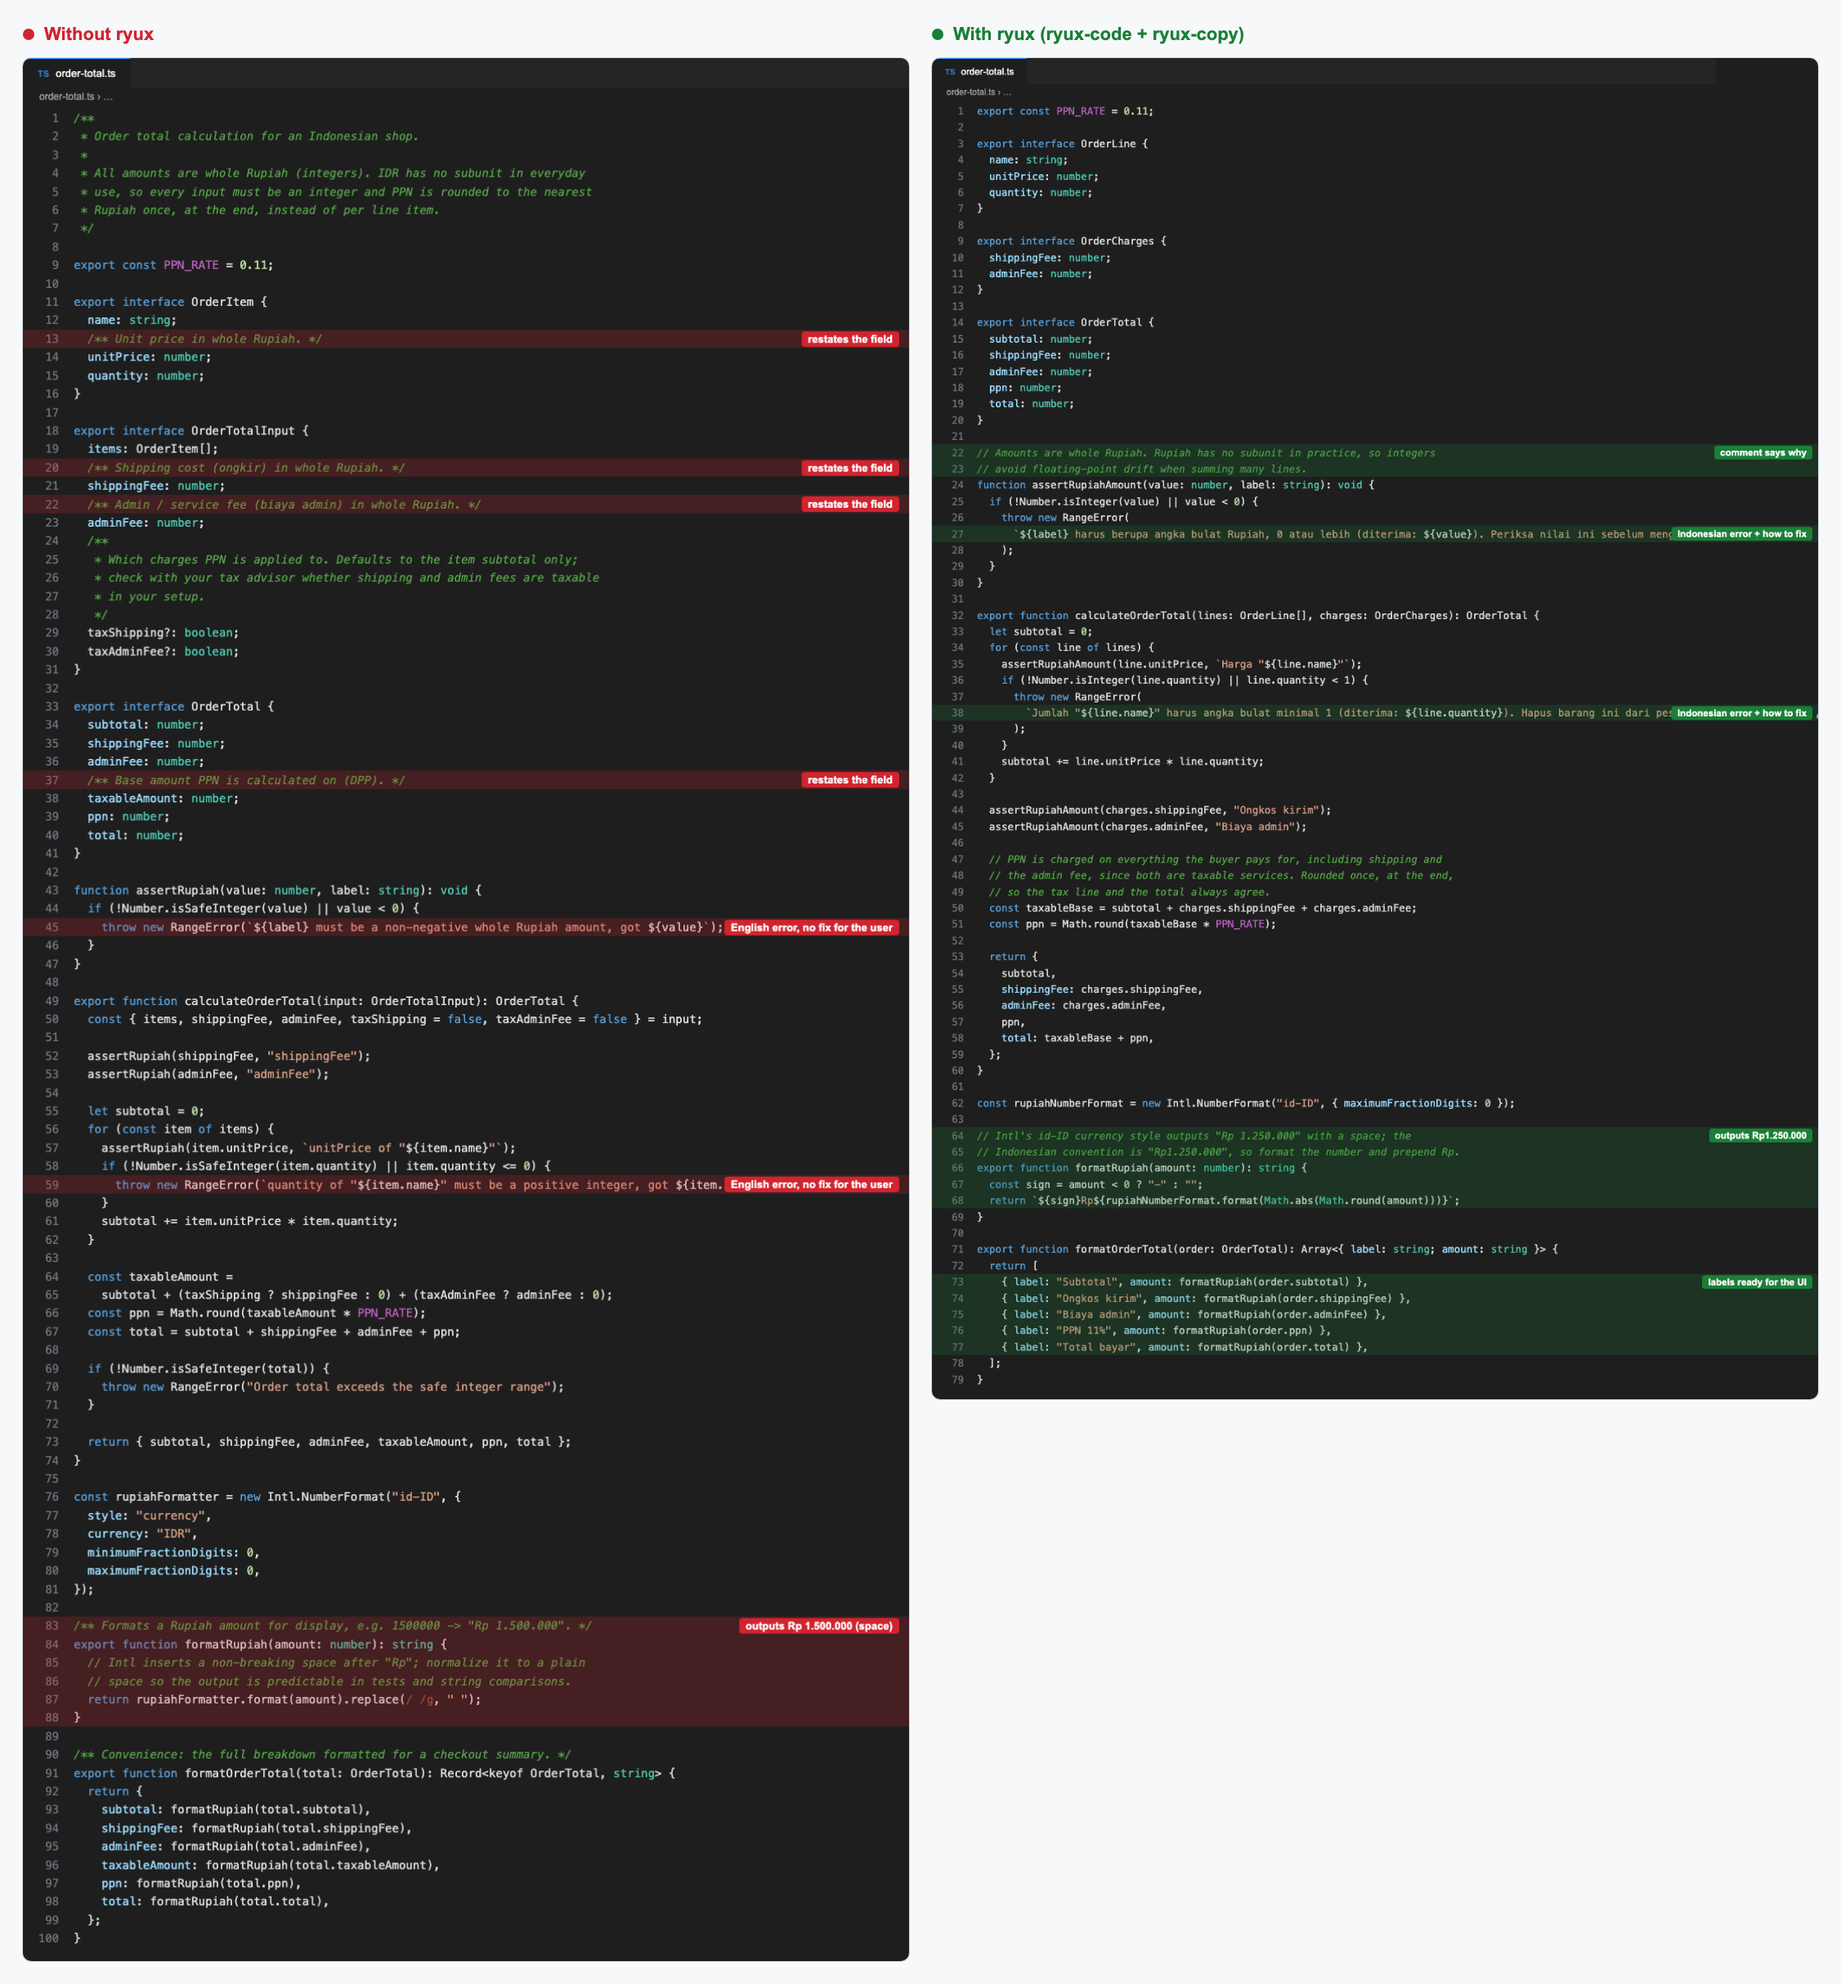
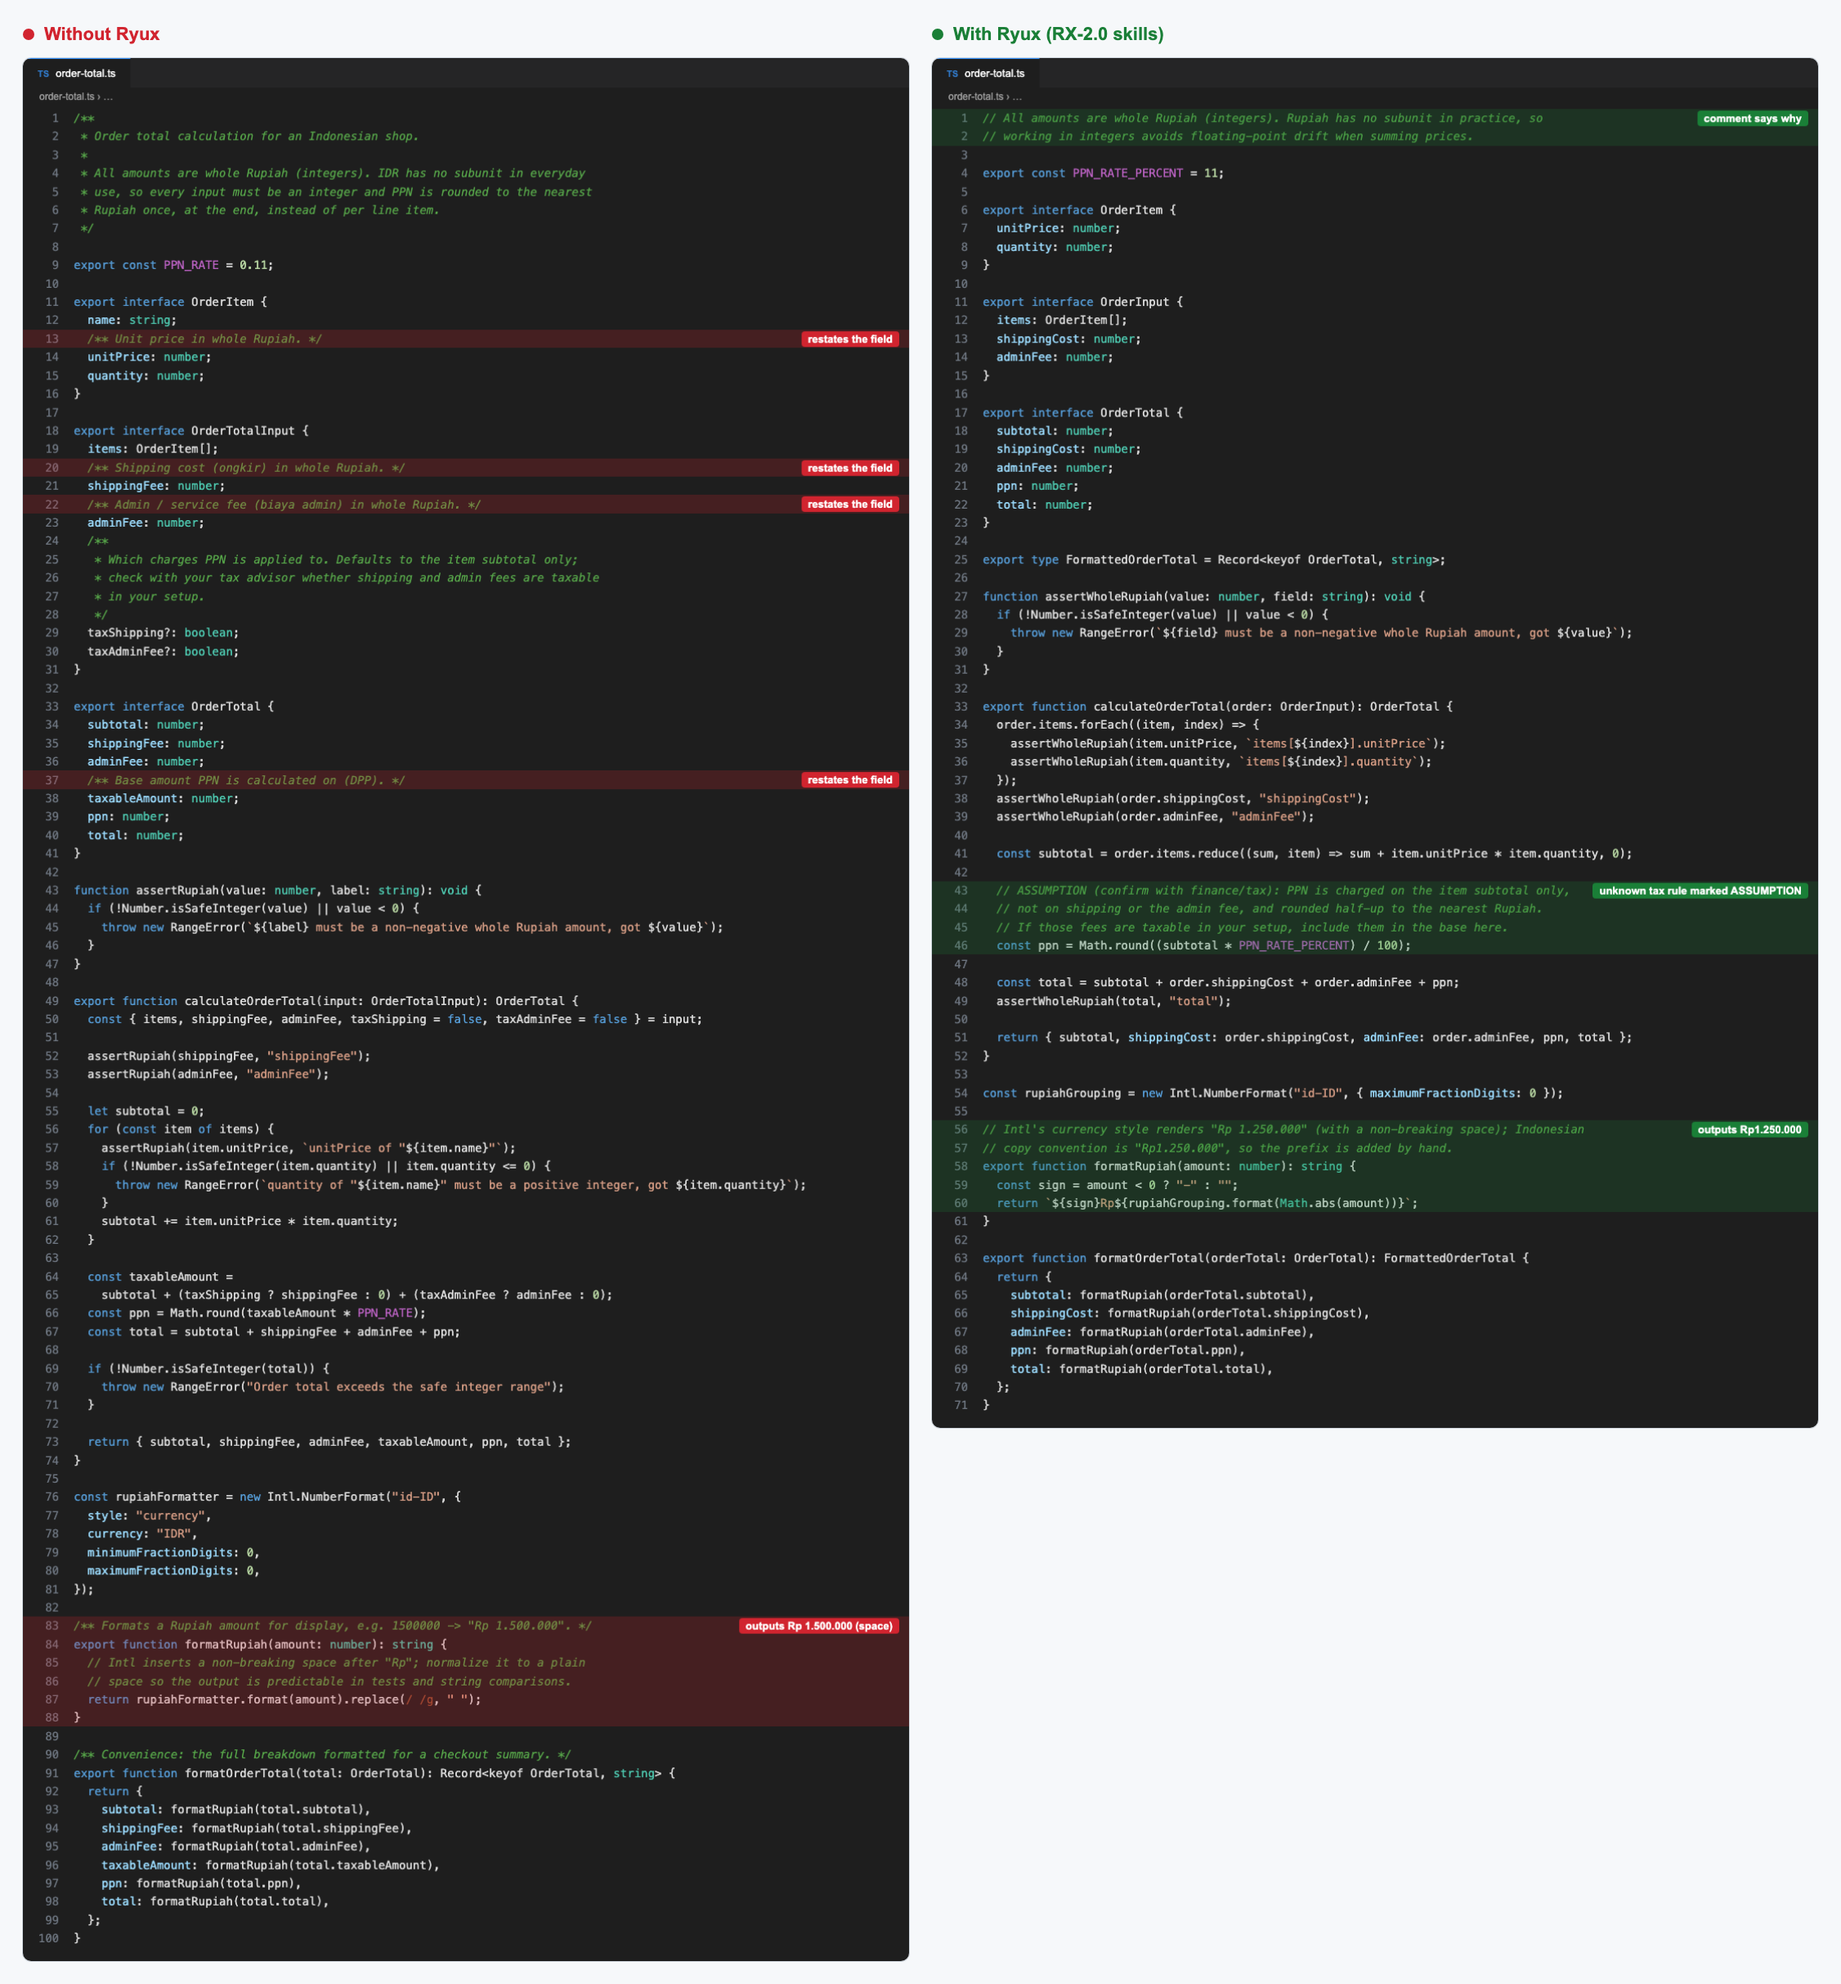
docs(readme): RX-2.0 evidence, Build/Critique/Knowledge, design-intelligence repo
- UI, Code, and Copy comparisons rerun with the current Ryux skills (agent
  picks the skills); captions cite RX-2.0 rule IDs.
- README opens with the three products: Ryux Build, Ryux Critique, and
  Ryux Knowledge.
- Repo link points to github.com/ryuxdsgn/design-intelligence.

diff --git a/apps/web/app/page.tsx b/apps/web/app/page.tsx
@@ -1,6 +1,6 @@
 import { WaitlistForm } from "@/components/waitlist-form";
 
-const REPO = "https://github.com/ryuxdsgn/ryux";
+const REPO = "https://github.com/ryuxdsgn/design-intelligence";
 
 function SearchIcon() {
   return (

diff --git a/README.md b/README.md
@@ -5,14 +5,42 @@
   <img src="https://img.shields.io/badge/skills-14%20modular-e36209" alt="Ryux: 14 modular design skills">
 </p>
 
-# ryux
+# ryux: design intelligence
 
-> UI and flow references from real Indonesian apps, served to AI agents over MCP, with an anti-slop
-> gate built in (**ryux-rules**). It's evidence-based: every design decision has to cite a real
-> screen instead of a generic pattern.
+> Design intelligence from real Indonesian apps, for the AI agents that build and the designers who
+> review. It's evidence-based: every design decision has to cite a real screen instead of a generic
+> pattern.
 
 > **New here?** Start with [GUIDE.md](./GUIDE.md). It walks you through it from scratch: install the
 > rules into your agent, then connect it to the reference data.
+
+## Three products, one knowledge base
+
+```
+                         RYUX
+                           │
+              ┌────────────┴────────────┐
+              │                         │
+         RYUX BUILD                RYUX CRITIQUE
+              │                         │
+        AI Coding                    Designer
+              │                         │
+              ↓                         ↓
+      Design Intelligence        Design Intelligence
+              │                         │
+              └────────────┬────────────┘
+                           ↓
+                    RYUX KNOWLEDGE
+```
+
+| Product | For | What it is today |
+| --- | --- | --- |
+| **Ryux Build** | AI coding agents (Claude Code, Cursor, Codex) | `ryux-core` plus 13 design skills, installed by the `ryux-rules` CLI, and the MCP research tools |
+| **Ryux Critique** | Designers, and agents asked to review | The `ryux-critique` skill (Design Read plus evidence-backed findings) and the MCP audit tools |
+| **Ryux Knowledge** | Both | Screens, flows, local patterns, and human-written designer notes from Indonesian apps, served over MCP |
+
+Build and Critique use the same rules, so what an agent builds is judged by the same standard a
+designer reviews with.
 
 ## What makes it different
 
@@ -29,41 +57,43 @@
 
 ## See the difference
 
-Each brief below ran headless (`claude -p`) in an empty folder, once without ryux and once with the
-ryux skills installed. The screenshots are the agents' real output, not edited by hand. The colored
-boxes are annotations added afterwards to point at what changed. The runs used ruleset RX-1.4; rule IDs
-are shown in the current RX-2.0 numbering.
+Each brief below ran headless (`claude -p`) in an empty folder, once without Ryux and once with the
+Ryux RX-2.0 skills installed by the CLI (`npx ryux-rules`). The agent chose which skills to load. The
+screenshots are the agents' real output, not edited by hand. The colored boxes are annotations added
+afterwards to point at what changed.
 
 ### UI
 
 *"A 1920×1080 landing page for Catat, a cashier and bookkeeping app for Indonesian UMKM."* Both runs
 designed in pen.dev through its MCP. The "with" run also had the ryux MCP for reference screens.
 
-<a href="assets/compare/ui/compare.png"><img src="assets/compare/ui/compare.png" alt="Two Catat landing pages designed in pen.dev, stacked. Without ryux: a polished hero with invented stats (48.000+ warung, 210 kota, 4,8 stars on Google Play), an unconfirmed 30-day trial, an unsourced +12% growth tag, amounts written as Rp 2.840.000 with a space, and a stock photo of a stranger presented as the user. With ryux: a ledger card labeled Contoh data whose totals add up to Rp150.000, a QRIS payment screen that shows the shop and Rp45.000 before paying, admin fees left as [REAL DATA], and no invented counts, ratings, or photos" width="100%"></a>
+<a href="assets/compare/ui/compare.png"><img src="assets/compare/ui/compare.png" alt="Two Catat landing pages designed in pen.dev, stacked. Without Ryux: a polished hero with invented stats (48.000+ warung, 210 kota, 4,8 stars on Google Play), an unconfirmed 30-day trial, an unsourced +12% growth tag, amounts written as Rp 2.840.000 with a space, and a stock photo of a stranger presented as the user. With Ryux: one primary action, a sales ledger labeled Contoh data whose cash and QRIS totals add up to Rp164.000, and a plain three-step strip with no invented counts, ratings, or photos" width="100%"></a>
 
-Both look finished, and that is the trap. Without ryux, the polish hides invented numbers, a borrowed
-face, and the wrong Rupiah format (RX-AS-01, RX-AS-02, RX-CD-02). With ryux, every number is either
-consistent sample data marked as such or an honest placeholder (RX-AS-03), and the payment screen
-follows Indonesian QRIS practice (RX-IX-09, RX-IX-05).
+Both look finished, and that is the trap. Without Ryux, the polish hides invented numbers, a borrowed
+face, and the wrong Rupiah format (RX-AS-01, RX-AS-02, RX-CD-02). With Ryux, there is one primary
+action (RX-PR-03), the sample data is labeled and adds up (RX-AS-03, RX-QA-04), and the agent closed
+with a Delivery Gate that marked its own gap honestly: only the 1920 frame was drawn, so RESPONSIVE
+was reported as FAIL.
 
 ### Code
 
 *"A TypeScript module that calculates an order total with shipping, an admin fee, and PPN 11%, and
 formats it as Rupiah."*
 
-<a href="assets/compare/code/compare.png"><img src="assets/compare/code/compare.png" alt="Two versions of order-total.ts side by side. Without ryux: doc comments that restate each field, English error messages with no fix for the shop owner, and a formatter that outputs Rp 1.500.000 with a space. With ryux: a comment that says why amounts are integers, Indonesian error messages that say how to fix the input, a formatter that outputs Rp1.250.000, and summary labels like Ongkos kirim and Total bayar" width="100%"></a>
+<a href="assets/compare/code/compare.png"><img src="assets/compare/code/compare.png" alt="Two versions of order-total.ts side by side. Without Ryux: 100 lines with doc comments that restate each field and a formatter that outputs Rp 1.500.000 with a space. With Ryux: 71 lines, a comment that says why amounts are integers, the unknown PPN base marked as an ASSUMPTION to confirm instead of invented, and a formatter that outputs Rp1.250.000" width="100%"></a>
 
-Comments only say why (RX-FE-06). Errors name the fix in Indonesian (RX-FE-05, RX-CD-04). Money comes
-out as `Rp1.250.000`, not `Rp 1.250.000` (RX-CD-02).
+Comments only say why (RX-FE-06). The tax rule nobody specified is marked as an assumption instead of
+invented (RX-PR-02, RX-FE-02). Money comes out as `Rp1.250.000`, not `Rp 1.250.000` (RX-FE-12).
 
 ### Copy
 
 *"Tulis pengumuman promo gratis ongkir untuk grup WhatsApp pelanggan toko online saya."*
 
-<a href="assets/compare/chat/compare.png"><img src="assets/compare/chat/compare.png" alt="Two WhatsApp promo announcements side by side. Without ryux: emoji on almost every line, emoji number bullets, ALL CAPS, and three urgency lines including selama persediaan masih ada and sebelum kehabisan. With ryux: one emoji in the greeting, plain lists, an automatic promo with no voucher code, a step to check that shipping shows Rp0 before paying, and a line on what to do if the discount doesn't apply" width="100%"></a>
+<a href="assets/compare/chat/compare.png"><img src="assets/compare/chat/compare.png" alt="Two WhatsApp promo announcements side by side. Without Ryux: emoji on almost every line, emoji number bullets, ALL CAPS, and three urgency lines including selama persediaan masih ada and sebelum kehabisan. With Ryux: one emoji in the greeting, a plain list of terms where every unknown value stays a placeholder, no invented code or quota, and a clear line on how to ask or order" width="100%"></a>
 
-No emoji bullets or invented scarcity (RX-CD-06, RX-AS-04). The "with" version adds what a customer
-needs: how to check the discount and who to contact if it fails (RX-EC-02).
+No emoji bullets or invented scarcity (RX-CD-06, RX-AS-04). Minimums, codes, and quotas the shop never
+gave stay placeholders instead of invented terms (RX-PR-02), and the message ends with a clear next
+step.
 
 More before/after pairs (accessibility, forms, local payment, review) are in
 [`docs/showcase.md`](docs/showcase.md#earlier-gallery).

diff --git a/docs/showcase.md b/docs/showcase.md
@@ -33,9 +33,9 @@ pnpm dev:mcp   # then: claude -p "<brief>" --mcp-config mcp.json --strict-mcp-co
 
 | Image | Without | With |
 | --- | --- | --- |
-| `ui/compare.png` | pen.dev MCP only | pen.dev MCP + ryux MCP + the RX-1.4 `ui,copy,a11y,ux,local` concern skills (the runs predate RX-2.0); the brief asks for `DESIGN.md` from `search_screens` + `extract_design_direction` first |
-| `code/compare.png` | no skills | RX-1.4 `ryux-code` + `ryux-copy` |
-| `chat/compare.png` | no skills | RX-1.4 `ryux-copy` + `ryux-local` |
+| `ui/compare.png` | pen.dev MCP only | pen.dev MCP + ryux MCP + all Ryux RX-2.0 skills (`--groups foundation,ux,ui,engineering,quality`); the brief asks for `DESIGN.md` from `search_screens` + `extract_design_direction` first |
+| `code/compare.png` | no skills | all Ryux RX-2.0 skills; the agent picks which to load |
+| `chat/compare.png` | no skills | all Ryux RX-2.0 skills; the agent picks which to load |
 
 pen.dev's `execute` always targets the open document, so UI runs add a top-level frame named
 `Catat landing A`/`B` and export it with `Export([frameId], "png", dir, {scale: 1})`. Code and copy
